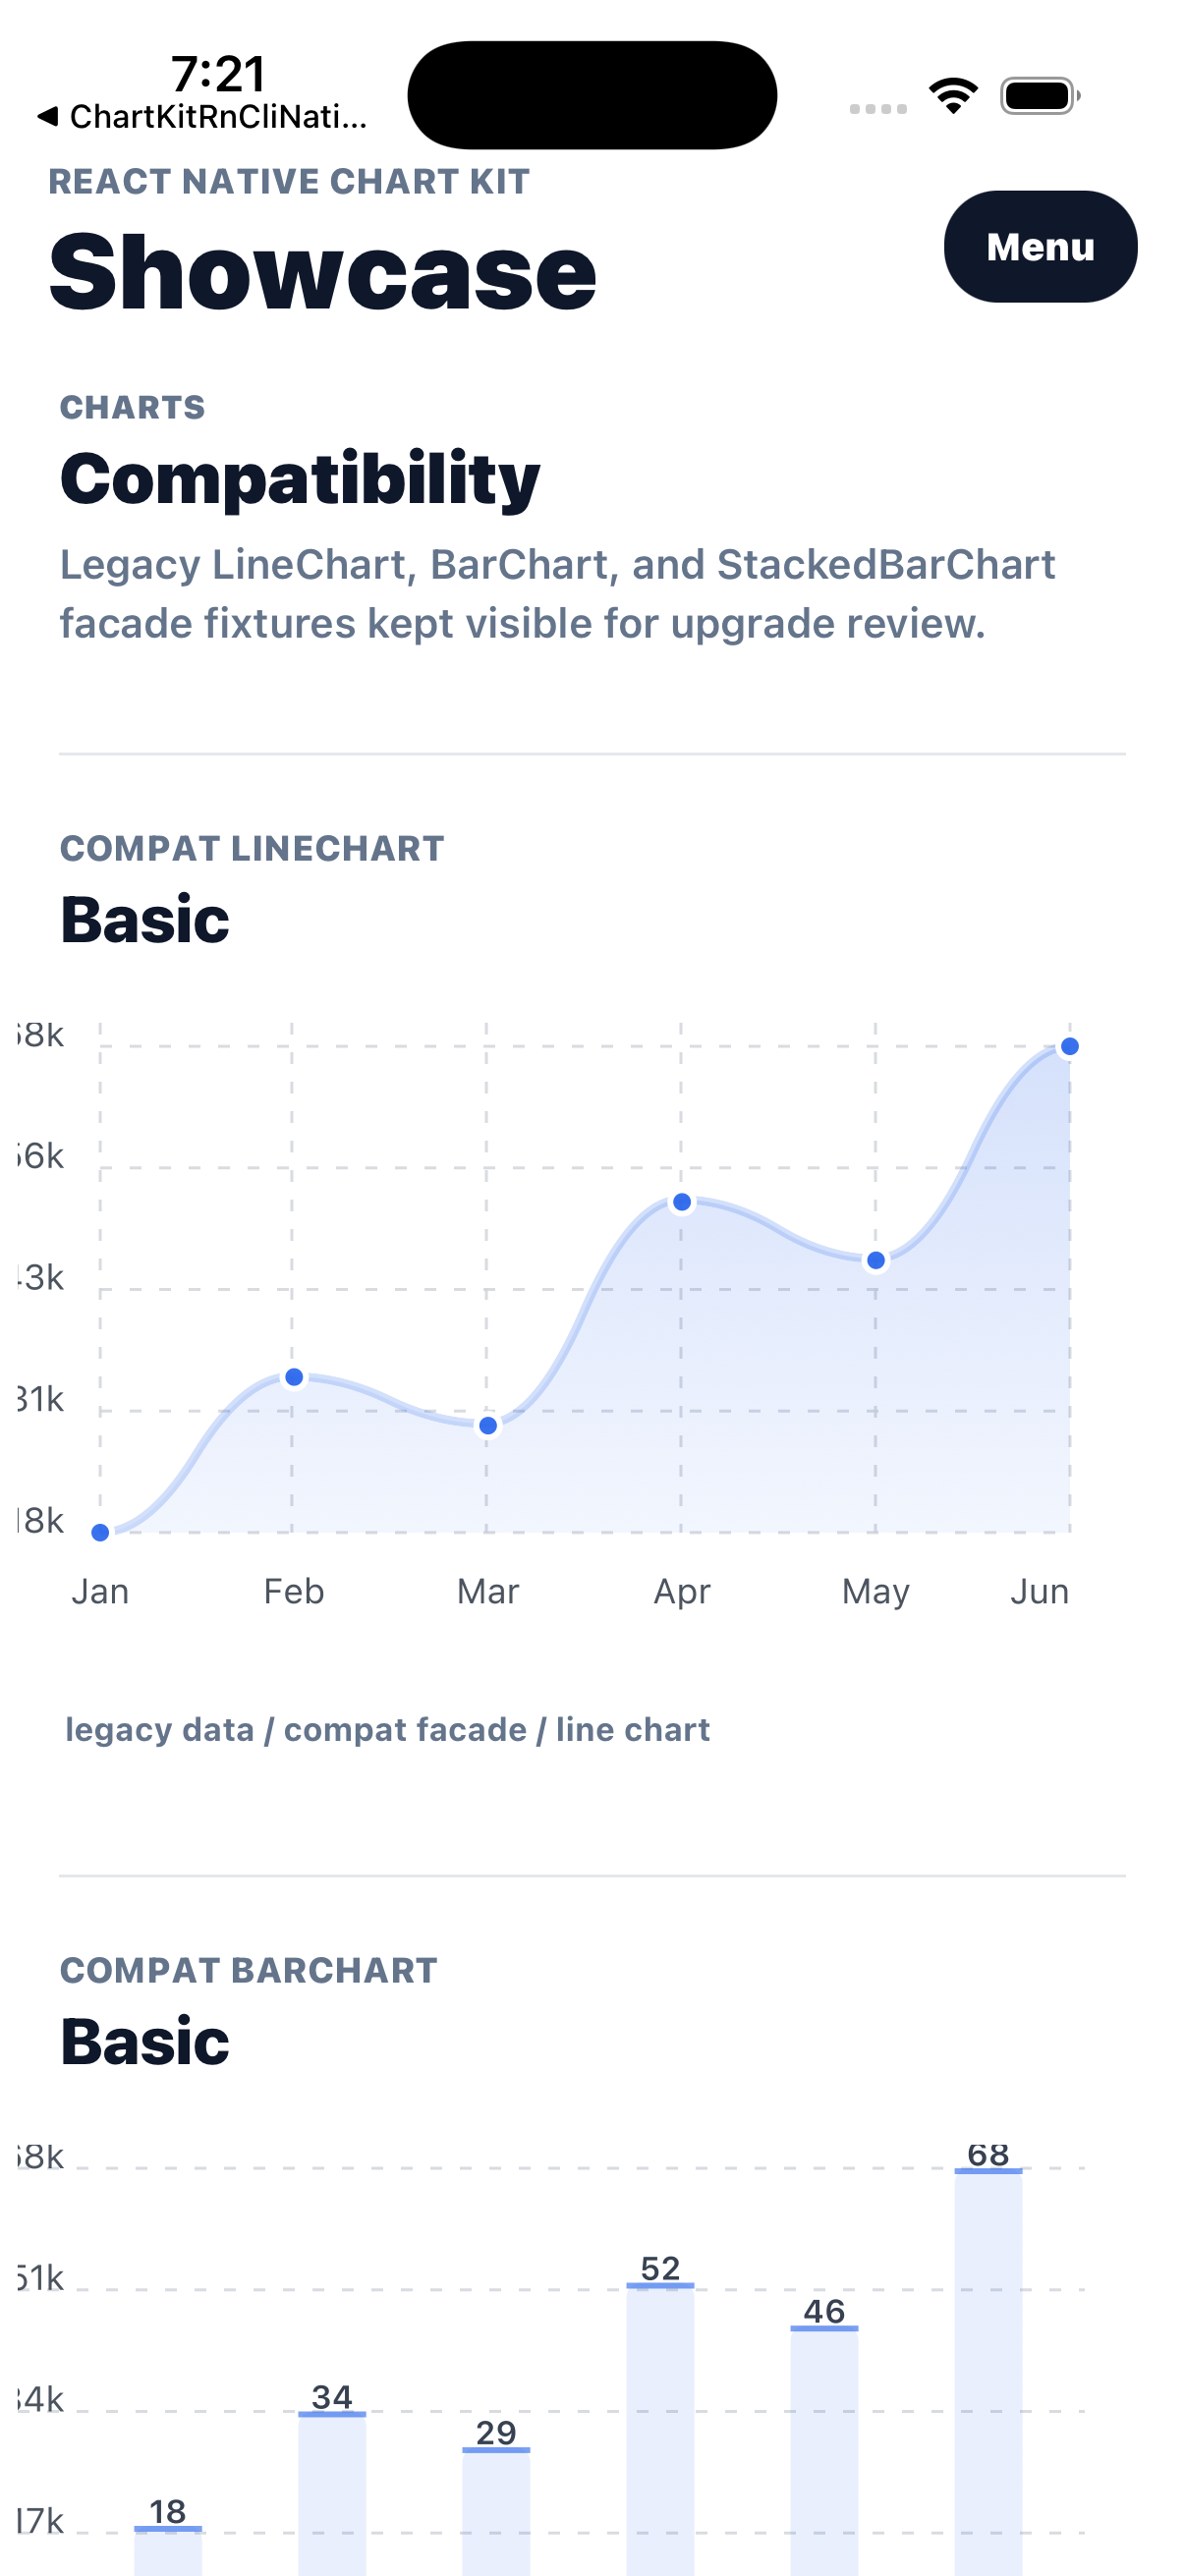
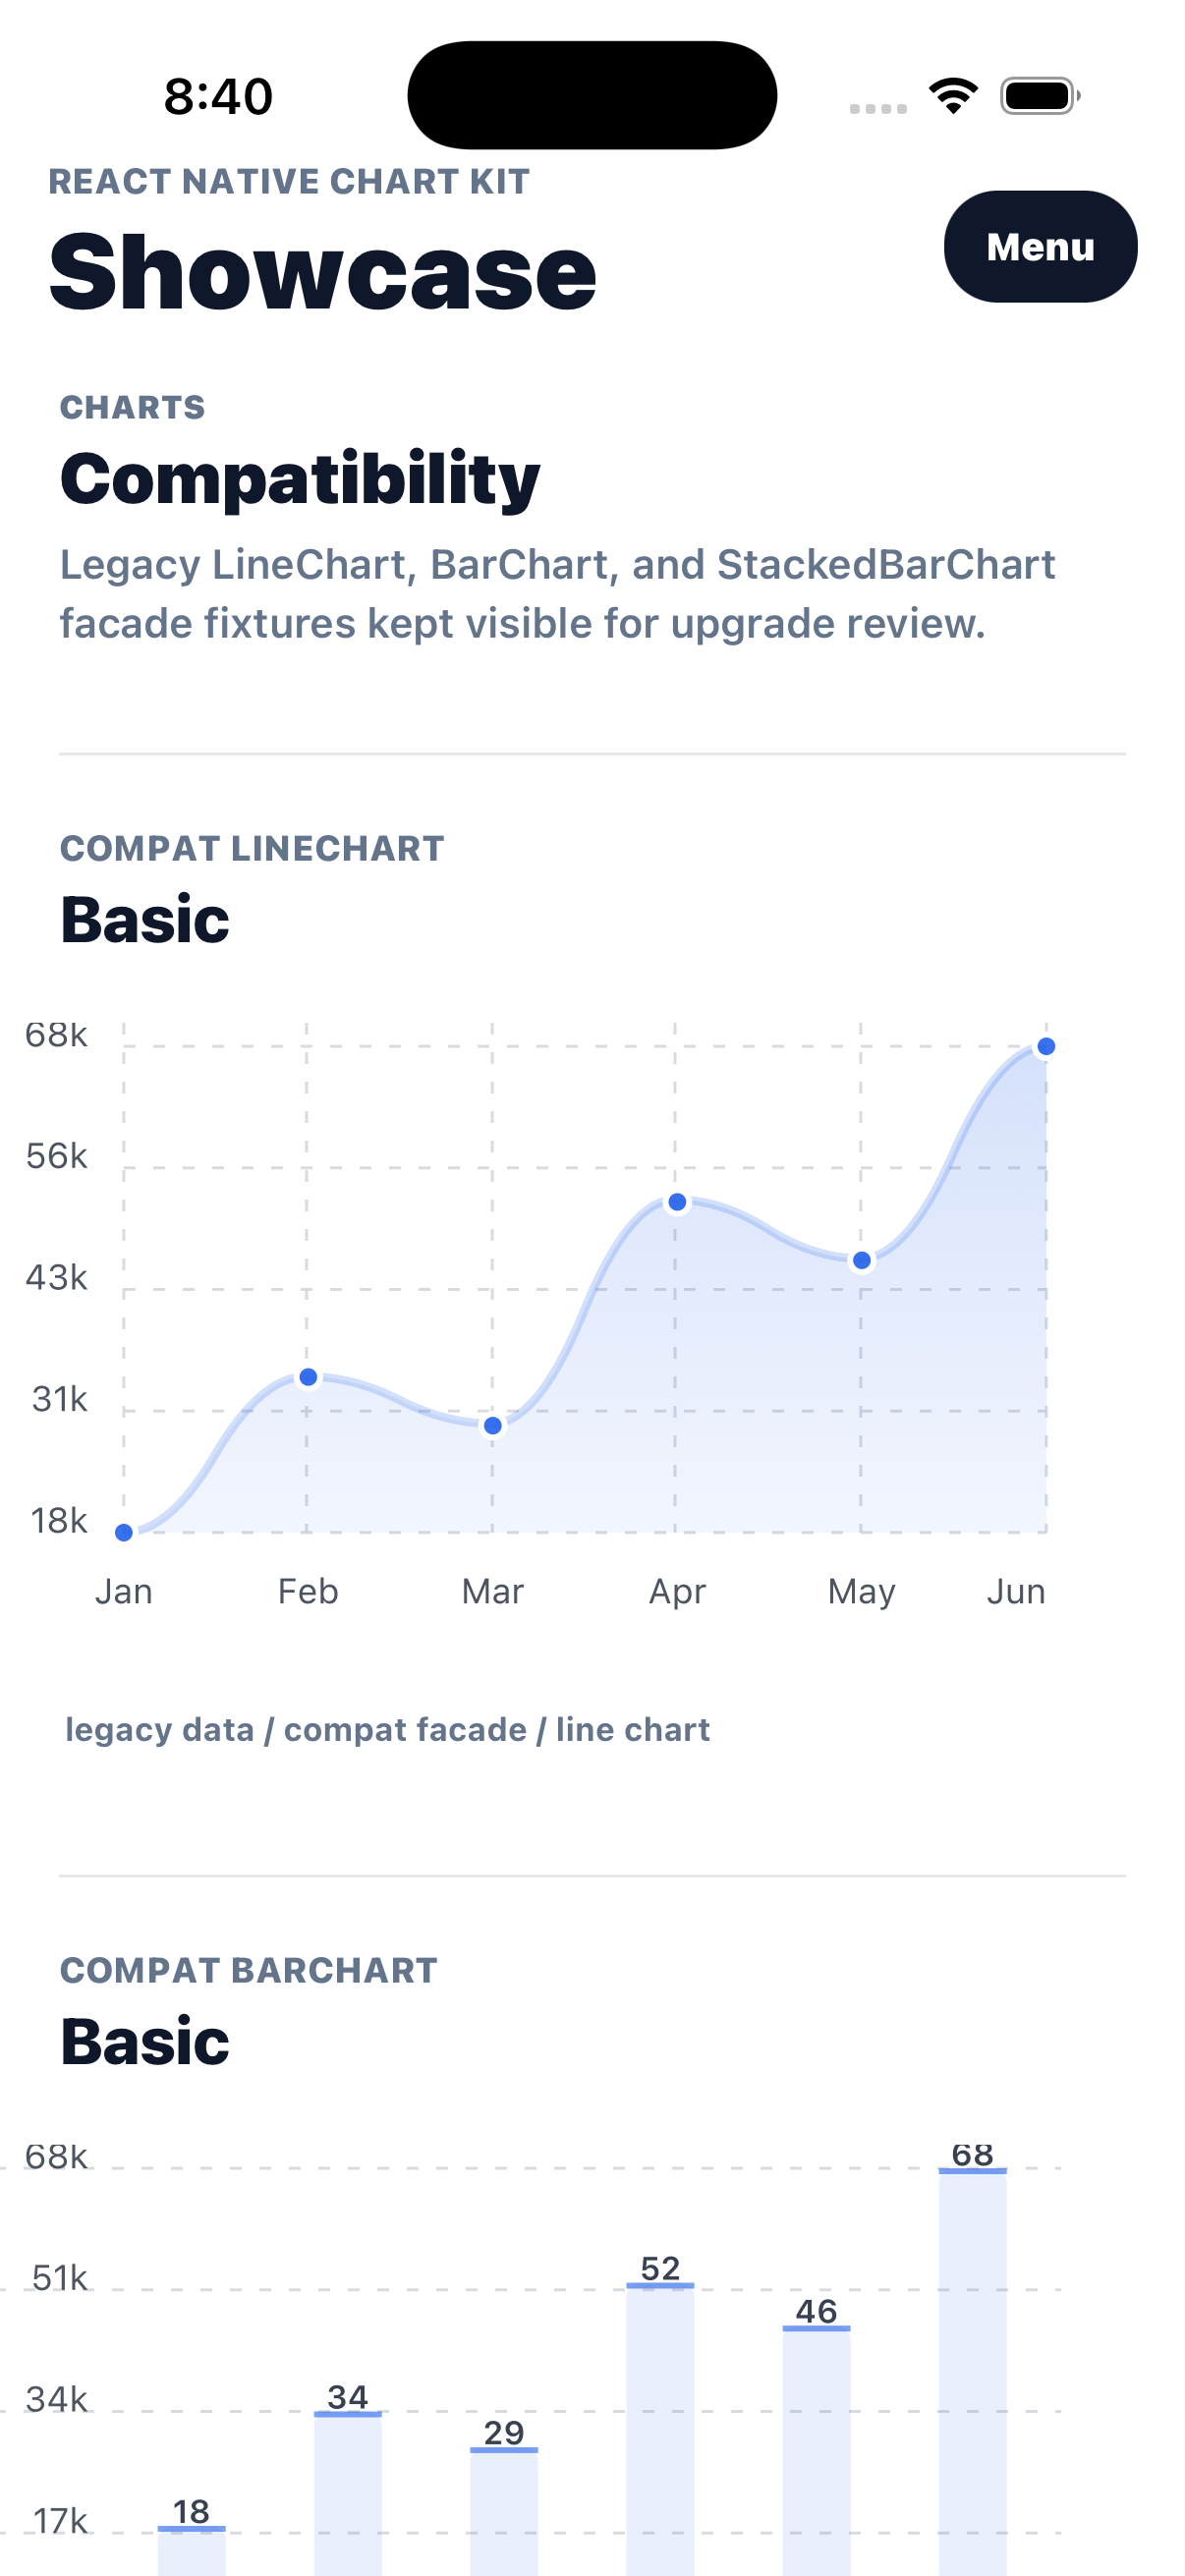
docs(skia): pass ios free chart parity

diff --git a/docs/release/artifacts/ios-skia-free-chart-parity-review.md b/docs/release/artifacts/ios-skia-free-chart-parity-review.md
@@ -1,8 +1,8 @@
 # iOS Skia Free Chart Parity Review
 
-Date: 2026-05-06
-Commit reviewed: `e02a767`
-Build surface: booted iOS simulator with previously installed renderer-injected showcase app
+Date: 2026-05-07
+Commit reviewed: `dcd83b8`
+Build surface: booted iOS simulator with renderer-injected Skia showcase app
 
 This artifact records a partial iOS Skia renderer parity review for the free chart
 surface. The screenshots were captured from the installed native showcase app via
@@ -16,26 +16,24 @@ surface. The screenshots were captured from the installed native showcase app vi
 - `docs/release/artifacts/ios-skia-free-chart-parity-4-progress.png`
 - `docs/release/artifacts/ios-skia-free-chart-parity-5-contribution.png`
 - `docs/release/artifacts/ios-skia-free-chart-parity-6-compatibility.png`
+- `docs/release/artifacts/ios-skia-free-chart-parity-7-compat-bar-basic.png`
+- `docs/release/artifacts/ios-skia-free-chart-parity-8-line-tooltip.png`
+- `docs/release/artifacts/ios-skia-free-chart-parity-9-bar-tooltip.png`
 
 ## Result
 
-- Line/Area, Bar/StackedBar, Pie/Donut, Progress, and Heatmap pages rendered
-  nonblank native chart surfaces with visible text, legends, labels, and chart
-  geometry.
+- Line/Area, Bar/StackedBar, Pie/Donut, Progress, Heatmap, and Compatibility
+  pages rendered nonblank native chart surfaces with visible text, legends,
+  labels, and chart geometry.
 - Native logs captured for each page did not include renderer errors, invariant
-  failures, fatal exceptions, or warnings.
-- The Compatibility page capture exposed clipped left-side legacy Y-axis labels.
-  The root cause was the showcase compatibility wrapper forcing legacy
-  `paddingRight` too low, which acts as the left Y-axis gutter in the old v1
-  chart implementation.
-- The source fix was committed in `e02a767` by raising the showcase compatibility
-  gutter floor. A rebuilt renderer-injected native showcase app and refreshed
-  compatibility screenshot are still required before this row can be marked pass.
+  failures, fatal exceptions, or missing native dependency failures.
+- The refreshed Compatibility page capture verifies the legacy LineChart gutter
+  fix against the rebuilt renderer-injected app.
+- Focused compat BarChart, LineChart tooltip, and BarChart tooltip captures cover
+  the row's label, legend, and tooltip requirements without page-scroll crop
+  ambiguity.
 
 ## Status
 
-Partial. This evidence narrows the remaining iOS Skia free-chart parity work to:
-
-- rebuild/install the renderer-injected iOS showcase app from `e02a767` or later
-- recapture the Compatibility page
-- perform final visible clipping/legend/tooltip/interaction review
+Pass for iOS simulator visual parity. This row does not cover Android Skia
+parity or Skia performance comparison, which remain separate matrix rows.

diff --git a/docs/release/native-qa-checklists.md b/docs/release/native-qa-checklists.md
@@ -11,7 +11,7 @@ Generated from native and Skia evidence matrices last updated 2026-05-07. Regene
 | Runtime QA | 16 | 0 | 16 | 0 | 0 | 0 | 0 |
 | Accessibility QA | 16 | 0 | 16 | 0 | 0 | 0 | 0 |
 | Native Performance | 18 | 0 | 18 | 0 | 0 | 0 | 0 |
-| Skia Renderer | 8 | 0 | 6 | 2 | 0 | 0 | 0 |
+| Skia Renderer | 8 | 1 | 5 | 2 | 0 | 0 | 0 |
 
 ## Runtime QA
 
@@ -193,7 +193,7 @@ Source: [docs/release/skia-renderer-qa.md](skia-renderer-qa.md) and [docs/releas
 | --- | --- | --- | --- | --- | --- | --- | --- |
 | `ios-skia-native-install` | iOS / Native Skia install verification | Release build on device or accepted simulator with optional Skia renderer installed | Install optional Skia renderer dependencies, run native release build, and verify the SVG default path still works without static Skia imports. |  |  | partial | `docs/release/artifacts/skia-local-baseline-2026-05-06.md`, `docs/release/artifacts/ios-skia-native-install.md` |
 | `android-skia-native-install` | Android / Native Skia install verification | Release APK on device or accepted emulator with optional Skia renderer installed | Install optional Skia renderer dependencies, run native release build, and verify the SVG default path still works without static Skia imports. |  |  | partial | `docs/release/artifacts/skia-local-baseline-2026-05-06.md`, `docs/release/artifacts/android-skia-native-install.md` |
-| `ios-skia-free-chart-parity` | iOS / Free chart renderer parity | Release build on device or accepted simulator with optional Skia renderer installed | Line, Area, Bar, StackedBar, Pie, Donut, Progress, and Contribution surfaces render with injected Skia primitives without missing text, gradients, clipping, tooltips, or legends. | Line and Area, Bar and StackedBar, Pie and Donut, Progress, Contribution, Compatibility | chartkitshowcase://showcase?view=charts&page=line-area, chartkitshowcase://showcase?view=charts&page=bar, chartkitshowcase://showcase?view=charts&page=pie-donut, chartkitshowcase://showcase?view=charts&page=progress, chartkitshowcase://showcase?view=charts&page=heatmaps, chartkitshowcase://showcase?view=charts&page=compat | partial | `docs/release/artifacts/skia-local-baseline-2026-05-06.md`, `docs/release/artifacts/ios-skia-renderer-build.md`, `docs/release/artifacts/ios-skia-free-chart-parity-review.md`, `docs/release/artifacts/ios-skia-free-chart-parity-1-line-and-area.png`, `docs/release/artifacts/ios-skia-free-chart-parity-1-line-and-area.log`, `docs/release/artifacts/ios-skia-free-chart-parity-2-bar-and-stackedbar.png`, `docs/release/artifacts/ios-skia-free-chart-parity-2-bar-and-stackedbar.log`, `docs/release/artifacts/ios-skia-free-chart-parity-3-pie-and-donut.png`, `docs/release/artifacts/ios-skia-free-chart-parity-3-pie-and-donut.log`, `docs/release/artifacts/ios-skia-free-chart-parity-4-progress.png`, `docs/release/artifacts/ios-skia-free-chart-parity-4-progress.log`, `docs/release/artifacts/ios-skia-free-chart-parity-5-contribution.png`, `docs/release/artifacts/ios-skia-free-chart-parity-5-contribution.log`, `docs/release/artifacts/ios-skia-free-chart-parity-6-compatibility.png`, `docs/release/artifacts/ios-skia-free-chart-parity-6-compatibility.log` |
+| `ios-skia-free-chart-parity` | iOS / Free chart renderer parity | Release build on device or accepted simulator with optional Skia renderer installed | Line, Area, Bar, StackedBar, Pie, Donut, Progress, and Contribution surfaces render with injected Skia primitives without missing text, gradients, clipping, tooltips, or legends. | Line and Area, Bar and StackedBar, Pie and Donut, Progress, Contribution, Compatibility | chartkitshowcase://showcase?view=charts&page=line-area, chartkitshowcase://showcase?view=charts&page=bar, chartkitshowcase://showcase?view=charts&page=pie-donut, chartkitshowcase://showcase?view=charts&page=progress, chartkitshowcase://showcase?view=charts&page=heatmaps, chartkitshowcase://showcase?view=charts&page=compat | pass | `docs/release/artifacts/ios-skia-renderer-build.md`, `docs/release/artifacts/ios-skia-free-chart-parity-review.md`, `docs/release/artifacts/ios-skia-free-chart-parity-1-line-and-area.png`, `docs/release/artifacts/ios-skia-free-chart-parity-1-line-and-area.log`, `docs/release/artifacts/ios-skia-free-chart-parity-2-bar-and-stackedbar.png`, `docs/release/artifacts/ios-skia-free-chart-parity-2-bar-and-stackedbar.log`, `docs/release/artifacts/ios-skia-free-chart-parity-3-pie-and-donut.png`, `docs/release/artifacts/ios-skia-free-chart-parity-3-pie-and-donut.log`, `docs/release/artifacts/ios-skia-free-chart-parity-4-progress.png`, `docs/release/artifacts/ios-skia-free-chart-parity-4-progress.log`, `docs/release/artifacts/ios-skia-free-chart-parity-5-contribution.png`, `docs/release/artifacts/ios-skia-free-chart-parity-5-contribution.log`, `docs/release/artifacts/ios-skia-free-chart-parity-6-compatibility.png`, `docs/release/artifacts/ios-skia-free-chart-parity-6-compatibility.log`, `docs/release/artifacts/ios-skia-free-chart-parity-7-compat-bar-basic.png`, `docs/release/artifacts/ios-skia-free-chart-parity-7-compat-bar-basic.log`, `docs/release/artifacts/ios-skia-free-chart-parity-8-line-tooltip.png`, `docs/release/artifacts/ios-skia-free-chart-parity-8-line-tooltip.log`, `docs/release/artifacts/ios-skia-free-chart-parity-9-bar-tooltip.png`, `docs/release/artifacts/ios-skia-free-chart-parity-9-bar-tooltip.log` |
 | `android-skia-free-chart-parity` | Android / Free chart renderer parity | Release APK on device or accepted emulator with optional Skia renderer installed | Line, Area, Bar, StackedBar, Pie, Donut, Progress, and Contribution surfaces render with injected Skia primitives without missing text, gradients, clipping, tooltips, or legends. | Line and Area, Bar and StackedBar, Pie and Donut, Progress, Contribution, Compatibility | chartkitshowcase://showcase?view=charts&page=line-area, chartkitshowcase://showcase?view=charts&page=bar, chartkitshowcase://showcase?view=charts&page=pie-donut, chartkitshowcase://showcase?view=charts&page=progress, chartkitshowcase://showcase?view=charts&page=heatmaps, chartkitshowcase://showcase?view=charts&page=compat | partial | `docs/release/artifacts/skia-local-baseline-2026-05-06.md`, `docs/release/artifacts/android-skia-renderer-build.md` |
 | `ios-skia-pro-preview-parity` | iOS / Pro preview renderer parity | Release build on device or accepted simulator with optional Skia renderer installed | Combined, Candlestick, range selector, sticky axis, crosshair, tooltip, and debug-layout preview surfaces render correctly with injected Skia primitives. | Combined, Candlestick, Range Selector, Crosshair, Debug Layout | chartkitshowcase://showcase?view=charts&page=combined, chartkitshowcase://showcase?view=charts&page=financial, chartkitshowcase://showcase?story=v2-range-selector&visual=1, chartkitshowcase://showcase?story=v2-custom-crosshair&visual=1, chartkitshowcase://showcase?story=v2-debug-layout&visual=1 | partial | `docs/release/artifacts/skia-local-baseline-2026-05-06.md`, `docs/release/artifacts/ios-skia-renderer-build.md`, `docs/release/artifacts/ios-skia-pro-preview-parity-review.md`, `docs/release/artifacts/ios-skia-pro-preview-parity-1-combined.png`, `docs/release/artifacts/ios-skia-pro-preview-parity-1-combined.log`, `docs/release/artifacts/ios-skia-pro-preview-parity-2-candlestick.png`, `docs/release/artifacts/ios-skia-pro-preview-parity-2-candlestick.log`, `docs/release/artifacts/ios-skia-pro-preview-parity-3-range-selector.png`, `docs/release/artifacts/ios-skia-pro-preview-parity-3-range-selector.log`, `docs/release/artifacts/ios-skia-pro-preview-parity-4-crosshair.png`, `docs/release/artifacts/ios-skia-pro-preview-parity-4-crosshair.log`, `docs/release/artifacts/ios-skia-pro-preview-parity-5-debug-layout.png`, `docs/release/artifacts/ios-skia-pro-preview-parity-5-debug-layout.log` |
 | `android-skia-pro-preview-parity` | Android / Pro preview renderer parity | Release APK on device or accepted emulator with optional Skia renderer installed | Combined, Candlestick, range selector, sticky axis, crosshair, tooltip, and debug-layout preview surfaces render correctly with injected Skia primitives. | Combined, Candlestick, Range Selector, Crosshair, Debug Layout | chartkitshowcase://showcase?view=charts&page=combined, chartkitshowcase://showcase?view=charts&page=financial, chartkitshowcase://showcase?story=v2-range-selector&visual=1, chartkitshowcase://showcase?story=v2-custom-crosshair&visual=1, chartkitshowcase://showcase?story=v2-debug-layout&visual=1 | partial | `docs/release/artifacts/skia-local-baseline-2026-05-06.md`, `docs/release/artifacts/android-skia-renderer-build.md` |